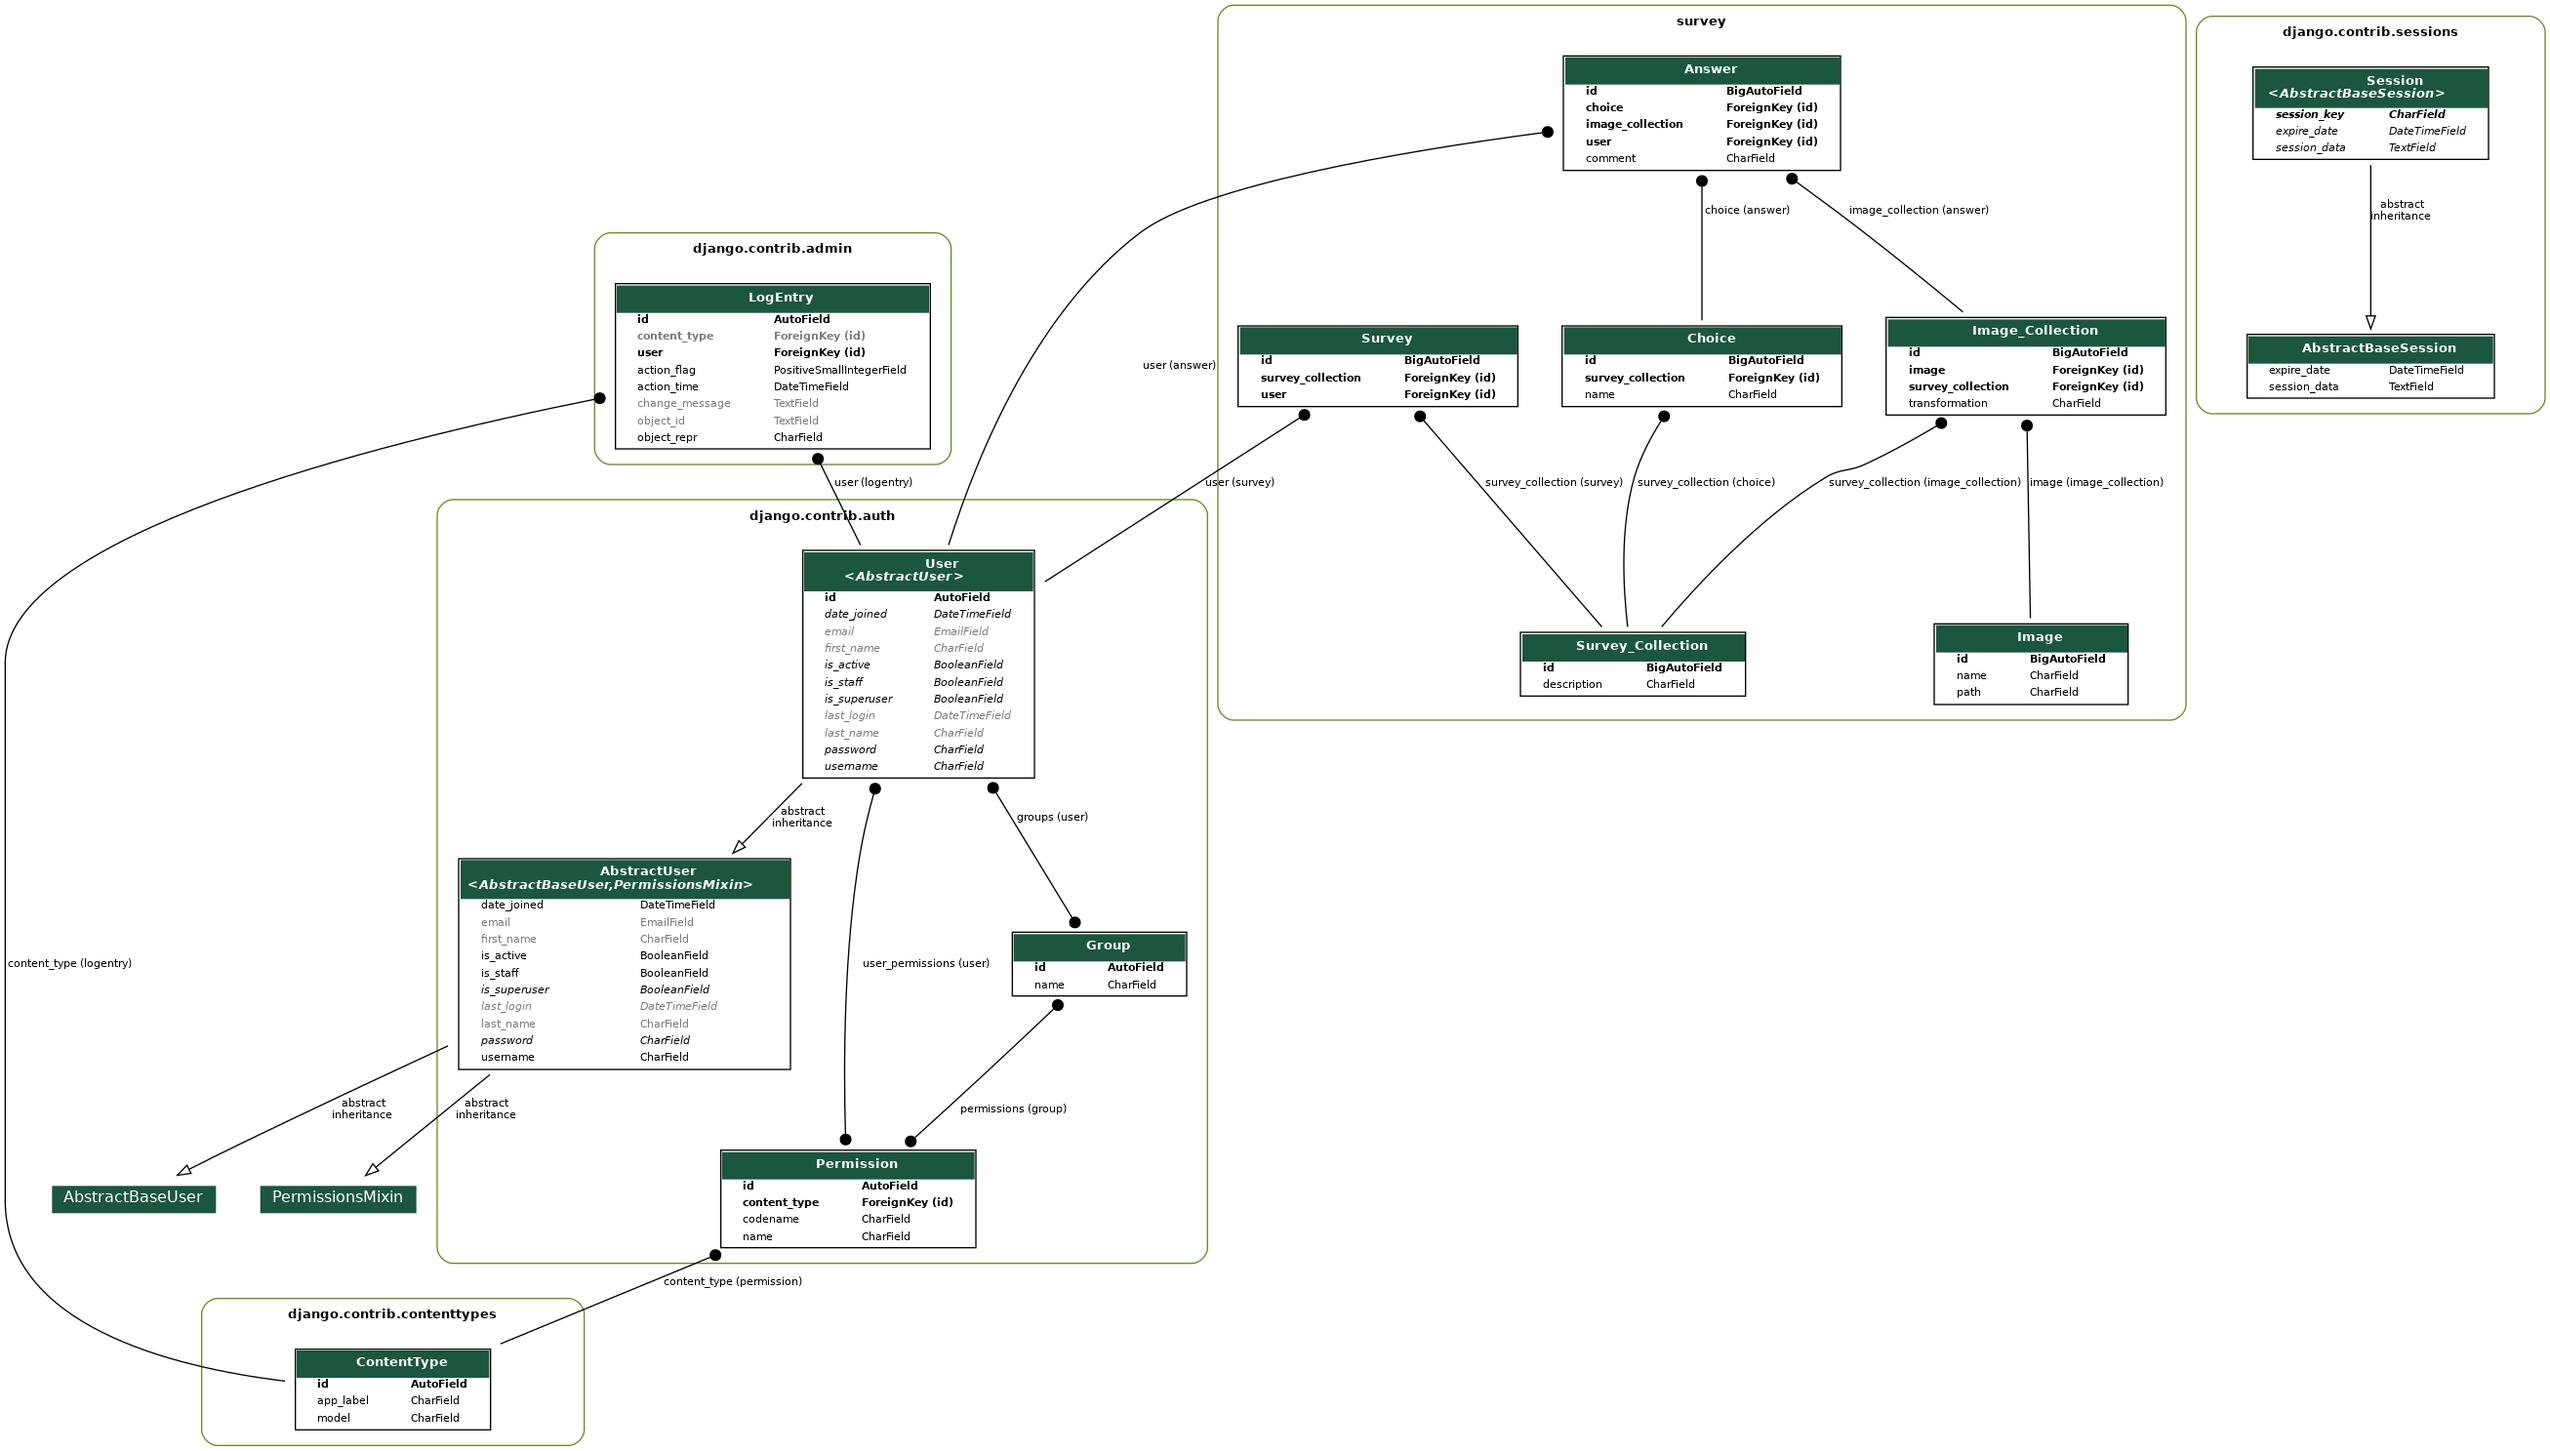
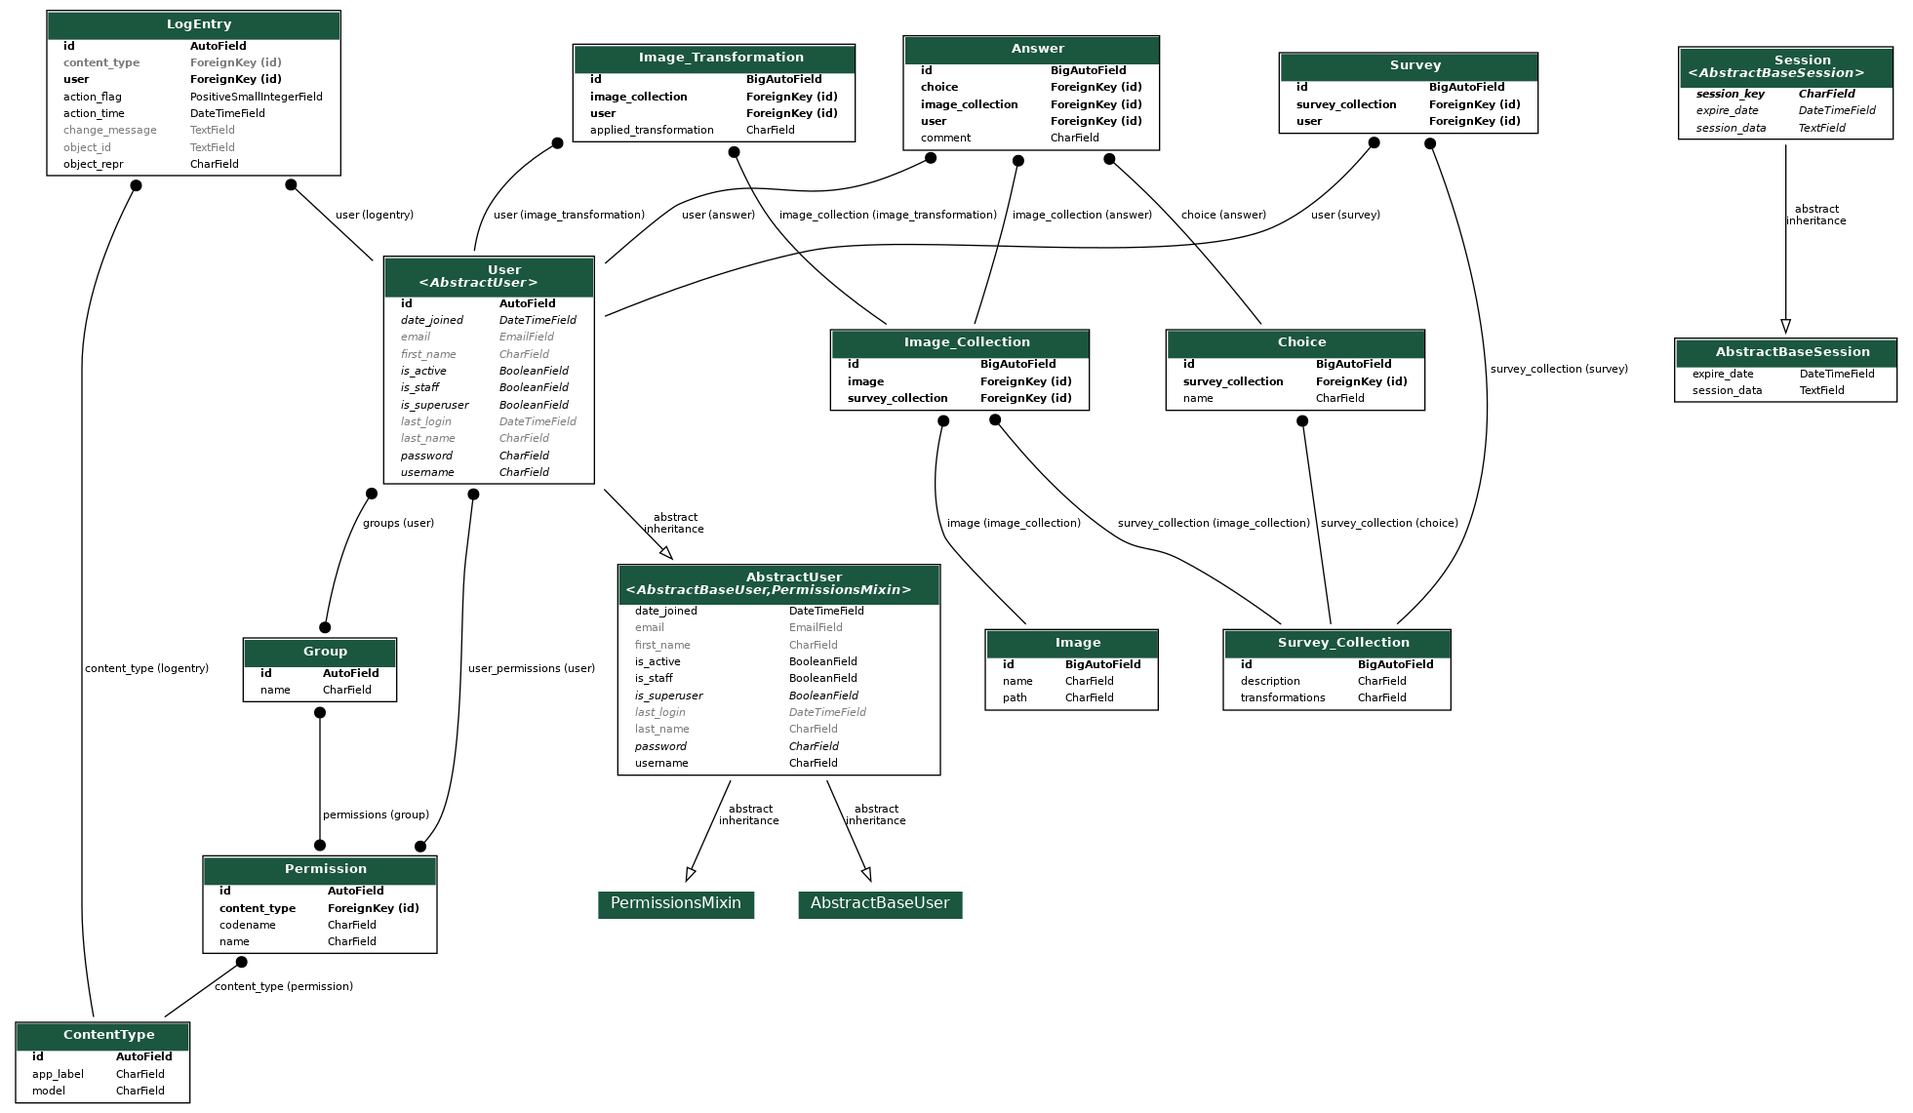
Add a new table called Image_Transformation to apply Collection's transformations to users with a random function based on probability

diff --git a/survey/templates/survey/collection.html b/survey/templates/survey/collection.html
@@ -27,7 +27,11 @@
                 {% if ans.choice == None %}
                     <form method="post" action="" class="post-form">
                         <div class="card border-danger mb-3 shadow bg-white rounded" style="width: 18rem;">
-                            <a href="{% url 'survey:survey' %}?img={{ img.image.id }}&survey_collection_id={{ img.survey_collection.id }}{% if show_only_unvoted == True %}&show_only_unvoted=on{% endif %}"><img src="{% encode_static img.image.path transformation=img.transformation %}" class="card-img-top" alt="{{ img.image.name }}"></a>
+                            {% for key, val in img_transformation.items %}
+                                {% if key == img.id %}
+                                    <a href="{% url 'survey:survey' %}?img={{ img.image.id }}&survey_collection_id={{ img.survey_collection.id }}{% if show_only_unvoted == True %}&show_only_unvoted=on{% endif %}"><img src="{% encode_static img.image.path transformation=val %}" class="card-img-top" alt="{{ img.image.name }}"></a>
+                                {% endif %}
+                            {% endfor %}
                             <div class="card-body">
                                 <h5 class="card-title text-danger">{{ img.image.name }}</h5>
                                 <!-- <p class="card-text">No Answer</p> -->
@@ -50,7 +54,11 @@
                 {% else %}
                     <form method="post" action="" class="post-form">
                         <div class="card border-success mb-3 shadow bg-white rounded" style="width: 18rem;">
-                            <a href="{% url 'survey:survey' %}?img={{ img.image.id }}&survey_collection_id={{ img.survey_collection.id }}"><img src="{% encode_static img.image.path transformation=img.transformation %}" class="card-img-top" alt="{{ img.image.name }}"></a>
+                            {% for key, val in img_transformation.items %}
+                                {% if key == img.id %}
+                                    <a href="{% url 'survey:survey' %}?img={{ img.image.id }}&survey_collection_id={{ img.survey_collection.id }}"><img src="{% encode_static img.image.path transformation=val %}" class="card-img-top" alt="{{ img.image.name }}"></a>
+                                {% endif %}
+                            {% endfor %}
                             <div class="card-body">
                                 <h5 class="card-title text-success">{{ img.image.name }}</h5>
                                 <!-- <p class="card-text">Answers: {{ ans.choice }}</p> -->

diff --git a/survey/templates/survey/survey.html b/survey/templates/survey/survey.html
@@ -40,7 +40,11 @@
                 </div>
                 <div class="col-lg">
                     <div class="text-center">
-                        <img src="{% encode_static image.image.path transformation=image.transformation %}" alt="{{ image.image.name }}" class="img-thumbnail">
+                        {% for key, val in img_transformation.items %}
+                                {% if key == image.id %}
+                                    <img src="{% encode_static image.image.path transformation=val %}" alt="{{ image.image.name }}" class="img-thumbnail">
+                                {% endif %}
+                        {% endfor %}
                     </div>
                     <form method="post" action="" class="post-form">
                         {% csrf_token %}

diff --git a/survey/templates/survey/results.html b/survey/templates/survey/results.html
@@ -35,9 +35,7 @@
             <tbody>
                 {% for key, value in img_collection_to_choice_dict.items %}
                 <tr>
-                    <th scope="row">{{ key.image.name }}{% if key.transformation != '' %}
-                        [{{ key.transformation }}]
-                    {% endif %}</th>
+                    <th scope="row">{{ key.image.name }}</th>
                     {% for k2, v2 in value.items %}
                     <td>{{ v2.0 }}% (votes: {{ v2.1 }})</td>
                     {% endfor %}

diff --git a/survey/views.py b/survey/views.py
@@ -4,7 +4,7 @@ from django.shortcuts import render, redirect
 from .forms import CreateUserForm
 from django.contrib.auth import authenticate, login, logout
 from django.contrib.auth.decorators import login_required, permission_required
-from .models import Survey, Image_Collection, Answer, Choice, Survey_Collection, User
+from .models import Survey, Image_Collection, Answer, Choice, Survey_Collection, User, Image_Transformation
 from .scripts.image_collection_loader import create_or_modify_collections, errorMsg
 
 
@@ -191,6 +191,12 @@ def surveyView(request):
     if selected_choice is not None:
         comment = selected_choice.comment
 
+    img_transformation = {
+        Image_Transformation.objects.filter(user_id=user_id, image_collection=img).first()
+        .image_collection_id: Image_Transformation.objects.filter(user_id=user_id, image_collection=img)
+        .first().applied_transformation for img in survey_images
+    }
+
     context = {
         'image': image,
         'choices': choices,
@@ -199,6 +205,7 @@ def surveyView(request):
         'prev': prev_img,
         'next': next_img,
         'show_only_unvoted': show_only_unvoted,
+        'img_transformation': img_transformation,
     }
     return render(request, 'survey/survey.html', context)
 
@@ -281,6 +288,12 @@ def collectionView(request):
 
     choices = Choice.objects.filter(survey_collection_id=survey_collection_id)
 
+    img_transformation = {
+        Image_Transformation.objects.filter(user_id=user_id, image_collection=img).first()
+        .image_collection_id: Image_Transformation.objects.filter(user_id=user_id, image_collection=img)
+        .first().applied_transformation for img in survey_images
+    }
+
     context = {
         'user_answers': user_answers,
         'survey_images': survey_images,
@@ -288,5 +301,6 @@ def collectionView(request):
         'show_only_unvoted': show_only_unvoted,
         'survey_collection_id': survey_collection_id,
         'choices': choices,
+        'img_transformation': img_transformation,
     }
     return render(request, 'survey/collection.html', context)

diff --git a/survey/migrations/0003_image_transformation.py b/survey/migrations/0003_image_transformation.py
@@ -1,0 +1,28 @@
+# Generated by Django 3.2.9 on 2022-06-28 14:17
+
+from django.conf import settings
+from django.db import migrations, models
+import django.db.models.deletion
+
+
+class Migration(migrations.Migration):
+
+    dependencies = [
+        migrations.swappable_dependency(settings.AUTH_USER_MODEL),
+        ('survey', '0002_alter_image_collection_unique_together'),
+    ]
+
+    operations = [
+        migrations.CreateModel(
+            name='Image_Transformation',
+            fields=[
+                ('id', models.BigAutoField(auto_created=True, primary_key=True, serialize=False, verbose_name='ID')),
+                ('applied_transformation', models.CharField(max_length=200)),
+                ('image_collection', models.ForeignKey(on_delete=django.db.models.deletion.CASCADE, to='survey.image_collection')),
+                ('user', models.ForeignKey(on_delete=django.db.models.deletion.CASCADE, to=settings.AUTH_USER_MODEL)),
+            ],
+            options={
+                'unique_together': {('image_collection', 'user')},
+            },
+        ),
+    ]

diff --git a/survey/models.py b/survey/models.py
@@ -4,6 +4,7 @@ from django.contrib.auth.models import User
 
 class Survey_Collection(models.Model):
     description = models.CharField(max_length=200)
+    transformations = models.CharField(max_length=200, default='')
 
     def __str__(self):
         return self.id
@@ -26,12 +27,20 @@ class Image(models.Model):
 
 
 class Image_Collection(models.Model):
-    transformation = models.CharField(max_length=200)
     survey_collection = models.ForeignKey(Survey_Collection, on_delete=models.CASCADE)
     image = models.ForeignKey(Image, on_delete=models.CASCADE)
 
     class Meta:
         unique_together = [['image', 'survey_collection']]
+
+
+class Image_Transformation(models.Model):
+    applied_transformation = models.CharField(max_length=200)
+    image_collection = models.ForeignKey(Image_Collection, on_delete=models.CASCADE)
+    user = models.ForeignKey(User, on_delete=models.CASCADE)
+
+    class Meta:
+        unique_together = [['image_collection', 'user']]
 
 
 class Choice(models.Model):

diff --git a/survey/migrations/0004_survey_collection_transformations.py b/survey/migrations/0004_survey_collection_transformations.py
@@ -1,0 +1,18 @@
+# Generated by Django 3.2.9 on 2022-06-29 10:39
+
+from django.db import migrations, models
+
+
+class Migration(migrations.Migration):
+
+    dependencies = [
+        ('survey', '0003_image_transformation'),
+    ]
+
+    operations = [
+        migrations.AddField(
+            model_name='survey_collection',
+            name='transformations',
+            field=models.CharField(default='', max_length=200),
+        ),
+    ]

diff --git a/survey/migrations/0005_remove_image_collection_transformation.py b/survey/migrations/0005_remove_image_collection_transformation.py
@@ -1,0 +1,17 @@
+# Generated by Django 3.2.9 on 2022-06-29 10:45
+
+from django.db import migrations
+
+
+class Migration(migrations.Migration):
+
+    dependencies = [
+        ('survey', '0004_survey_collection_transformations'),
+    ]
+
+    operations = [
+        migrations.RemoveField(
+            model_name='image_collection',
+            name='transformation',
+        ),
+    ]
